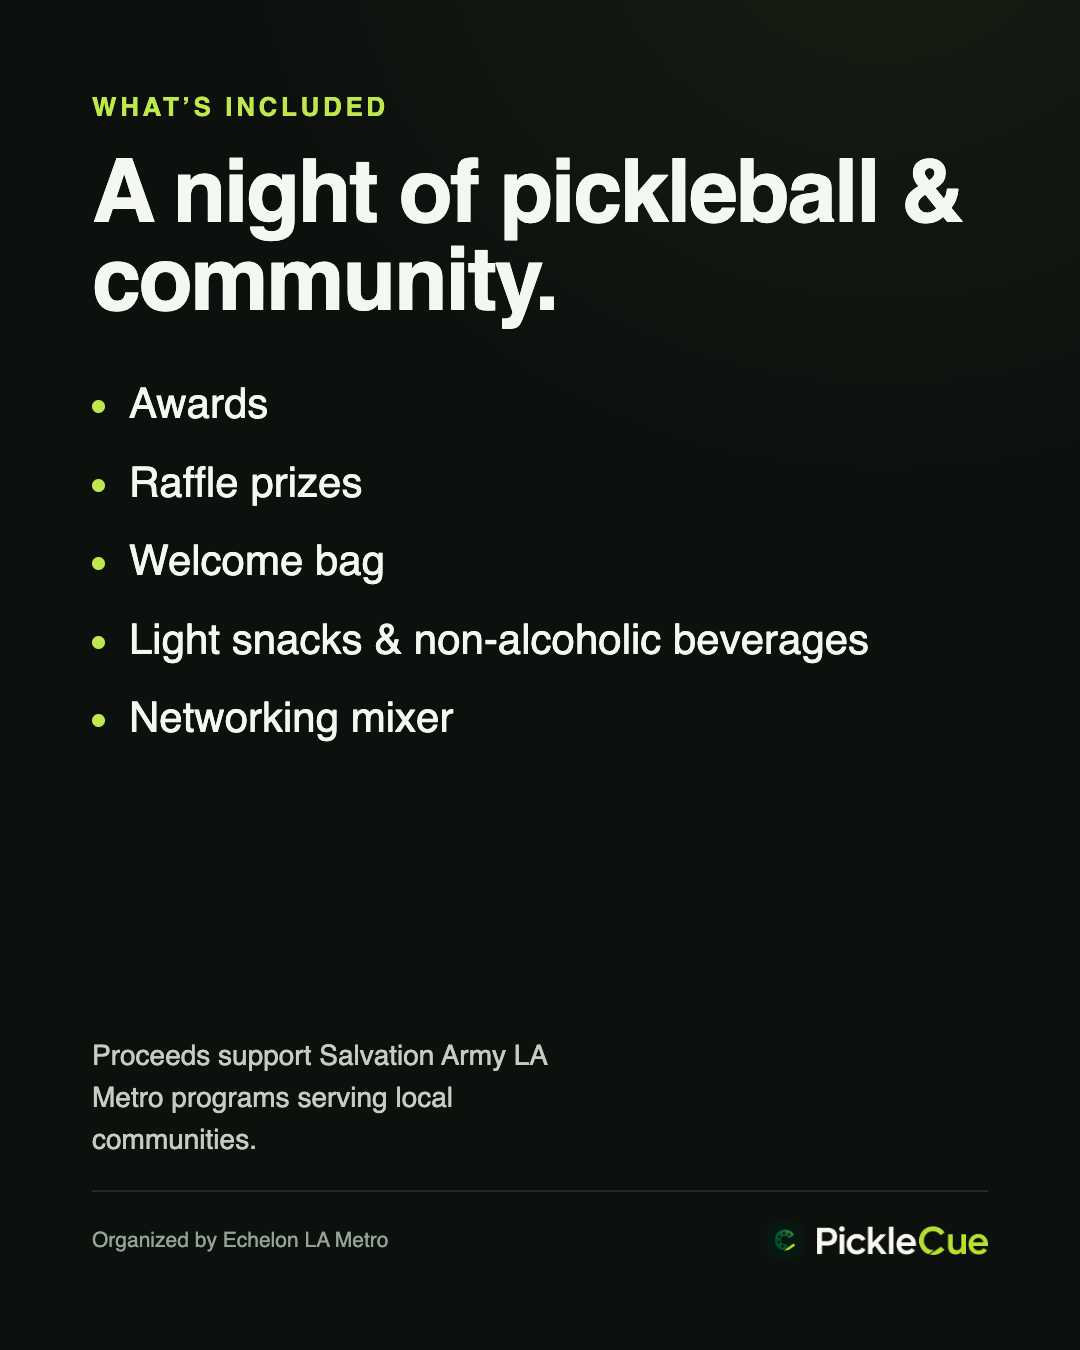
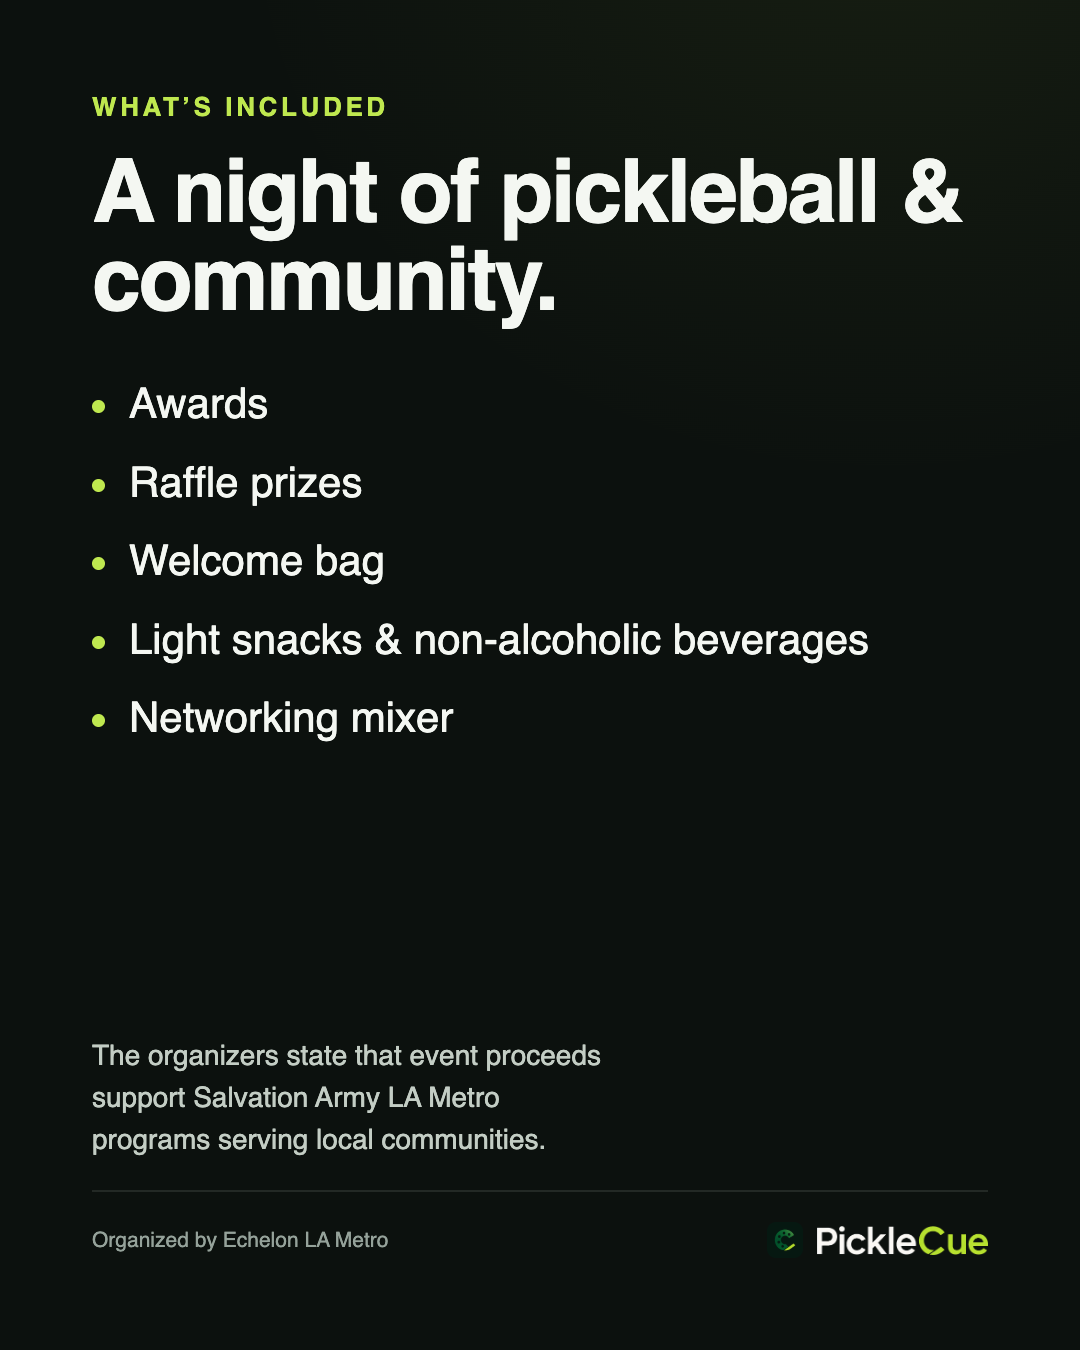
legal(social): organizer-attributed proceeds line on IG slide 3 / story 2 + caption
Same risk-tuning as the site launch (e4c3072): the proceeds-benefit statement
is the organizers' representation, not PickleCue's. All 8 frames re-exported.

Claude-Session: https://claude.ai/code/session_01JuJm5QPz6Jzfm4ie273nTF

Changed region(s): [[0.0917, 0.7778, 0.55, 0.8711]]

diff --git a/poster-p4p-stories.html b/poster-p4p-stories.html
@@ -107,7 +107,7 @@
           <li>Networking mixer</li>
         </ul>
         <div class="spacer"></div>
-        <p class="note" style="margin:0 0 40px">Proceeds support Salvation Army LA Metro programs serving local communities.</p>
+        <p class="note" style="margin:0 0 40px">The organizers state that event proceeds support Salvation Army LA Metro programs serving local communities.</p>
         <div class="foot"><span class="org">Organized by Echelon LA Metro</span><span class="brandrow"><img class="mark" src="images/app-icon-512.png" alt=""><img src="images/wordmark-on-dark.png" alt="PickleCue"></span></div>
       </div>
     </div>

diff --git a/poster-p4p.html b/poster-p4p.html
@@ -137,7 +137,7 @@
           <li>Networking mixer</li>
         </ul>
         <div class="spacer"></div>
-        <p class="note" style="margin:0 0 30px">Proceeds support Salvation Army LA Metro programs serving local communities.</p>
+        <p class="note" style="margin:0 0 30px">The organizers state that event proceeds support Salvation Army LA Metro programs serving local communities.</p>
         <div class="foot"><span class="org">Organized by Echelon LA Metro</span><span class="brandrow"><img class="mark" src="images/app-icon-512.png" alt=""><img src="images/wordmark-on-dark.png" alt="PickleCue"></span></div>
       </div>
     </div>
